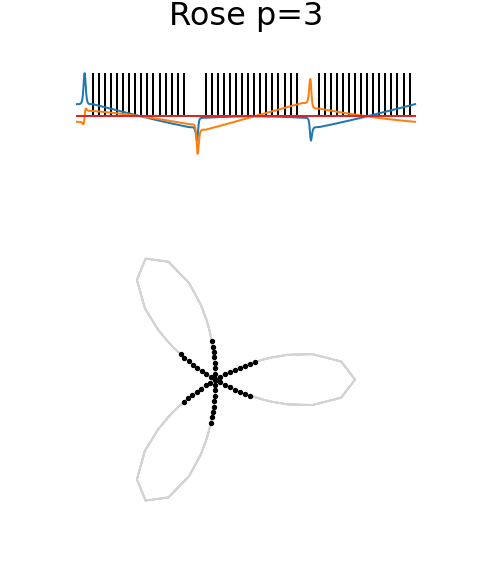
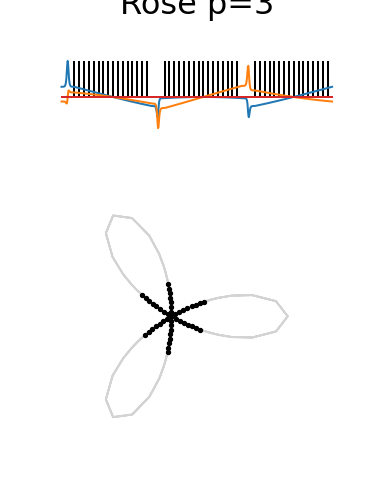
Refactor to scanpatterns

diff --git a/scanpatterns/patterns.py b/scanpatterns/patterns.py
@@ -715,7 +715,7 @@ if __name__ == '__main__':
     
     DPI = 96
     
-    print('Generating figures...')
+    print('Generating demo figures...')
     
     import matplotlib
     import matplotlib.pyplot as plt
@@ -746,7 +746,7 @@ if __name__ == '__main__':
     
     for i, (pattern, title, fname) in enumerate(zip(patterns, titles, fnames)):
         
-        fig = plt.figure(i, constrained_layout=False, figsize=(5, 6))
+        fig = plt.figure(i, constrained_layout=False, figsize=(4, 5))
         
         gs = fig.add_gridspec(nrows=3, ncols=1, hspace=1)
         ax1 = fig.add_subplot(gs[0, 0])

diff --git a/setup.py b/setup.py
@@ -11,9 +11,9 @@ from shutil import rmtree
 
 from setuptools import find_packages, setup, Command
 
-from scanpattern.__version__ import __version__ as VERSION
+from scanpatterns.__version__ import __version__ as VERSION
 
-NAME = 'scanpattern'
+NAME = 'scanpatterns'
 
 about = {}
 about['__version__'] = VERSION

diff --git a/README.md b/README.md
@@ -1,12 +1,42 @@
 # PyScanPattern
-Parametric scan patterns for laser scanning microscopy
+Parametric scan patterns for laser scanning microscopy.
 
-### Patterns
+Galvo drive signals, line camera/PMT exposure triggers, and frame/digitizer triggers are generated given a scan type and parameters.
 
+## Installation
+```
+pip install scanpatterns
+```
+
+## Patterns
+
+So far, the following patterns are implemented:
+* Raster scan
+* Raster scan with repeated A-lines
+* Raster scan with repeated B-lines
+* Figure-8 scan
+* Rhodonea rose scan with any number of petals
+
+Patterns are created by calling the `generate` method of any `LineScanPattern` instance.
+
+The resultant scan signals can be accessed via the `x`, `y`, `line_trigger` and `frame_trigger` properties.
+
+```python
+RasterScanPattern(16, 16, 76000)
+```
 ![Sample raster scan](https://raw.githubusercontent.com/sstucker/PyScanPattern/master/img/raster.png)
 
+```python
+Figure8ScanPattern(1, 16, 76000)
+```
 ![Sample figure-8 scan](https://github.com/sstucker/PyScanPattern/blob/master/img/fig8.png)
 
+```python
+Figure8ScanPattern(3, 16, 76000)
+```
 ![Sample rose scan](https://raw.githubusercontent.com/sstucker/PyScanPattern/master/img/rose3.png)
 
+```python
+Figure8ScanPattern(5, 16, 76000)
+```
 ![Sample rose scan](https://raw.githubusercontent.com/sstucker/PyScanPattern/master/img/rose5.png)
